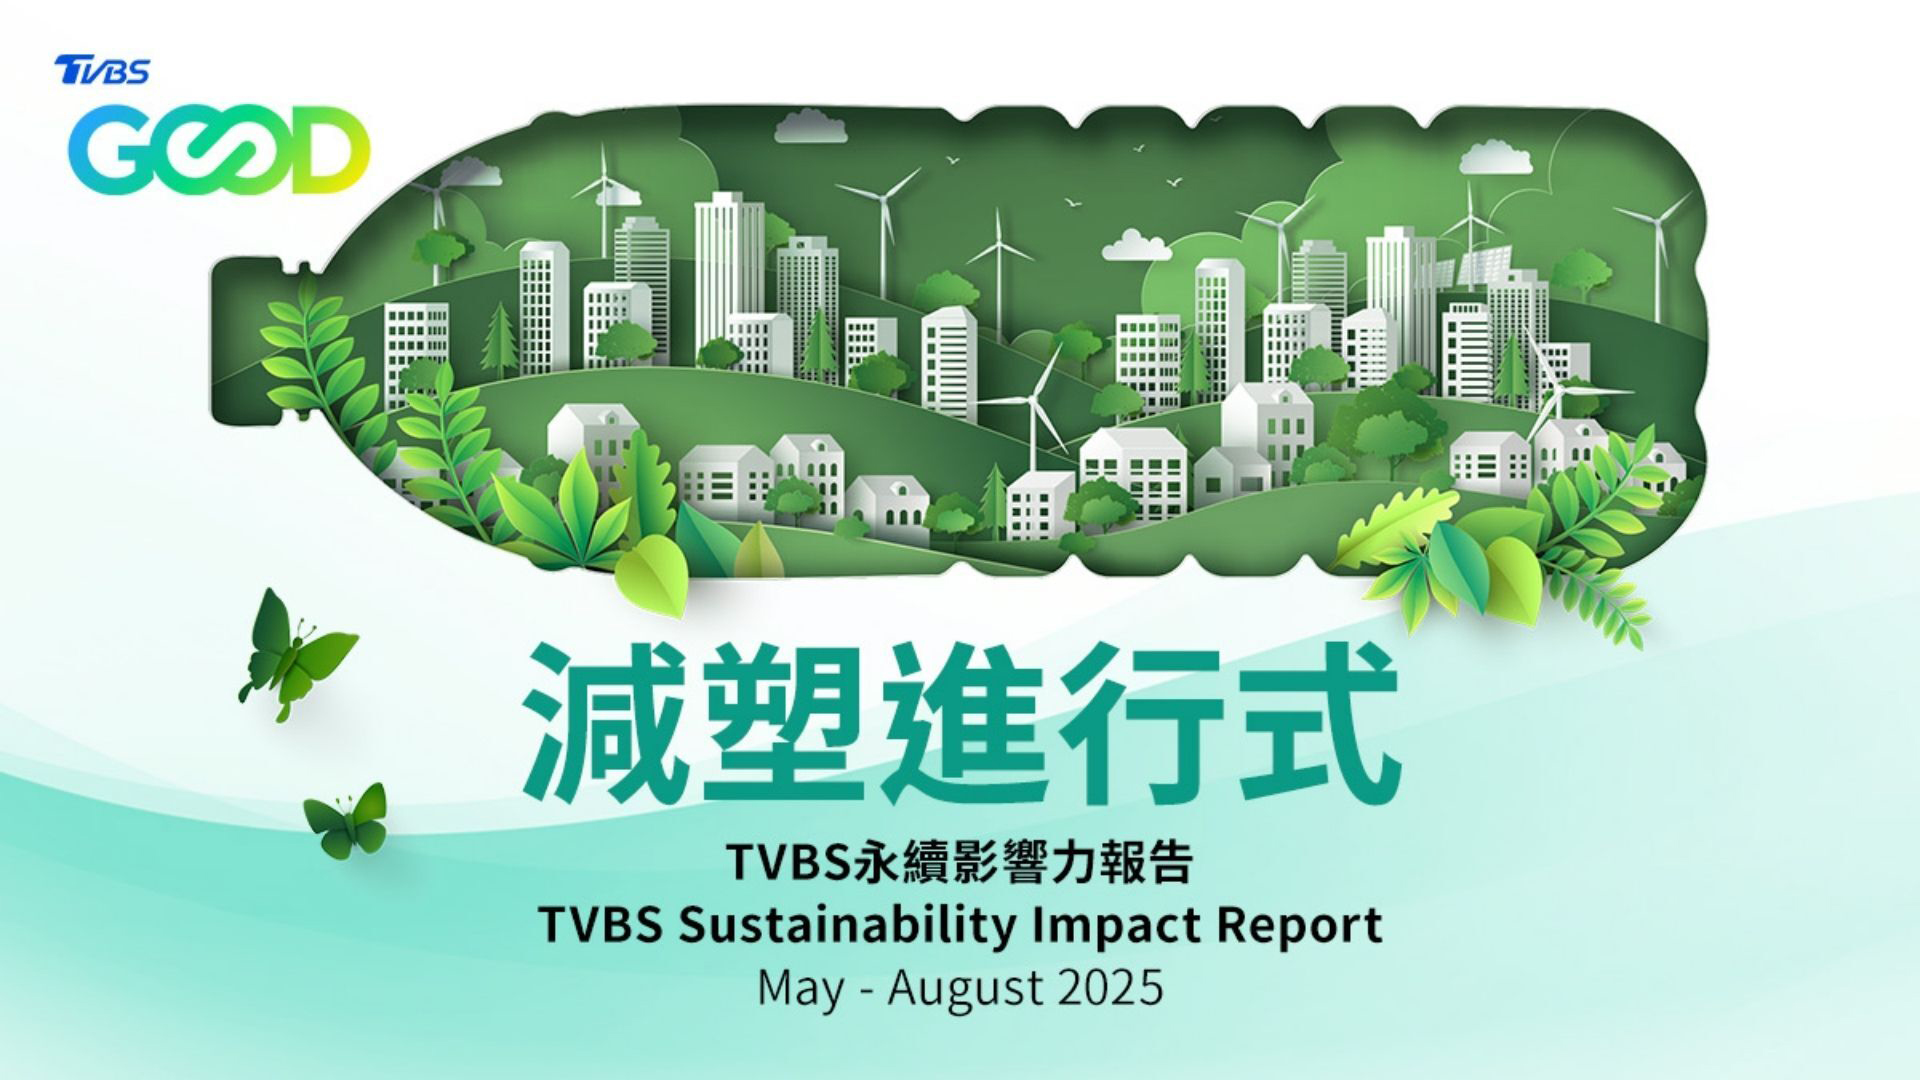
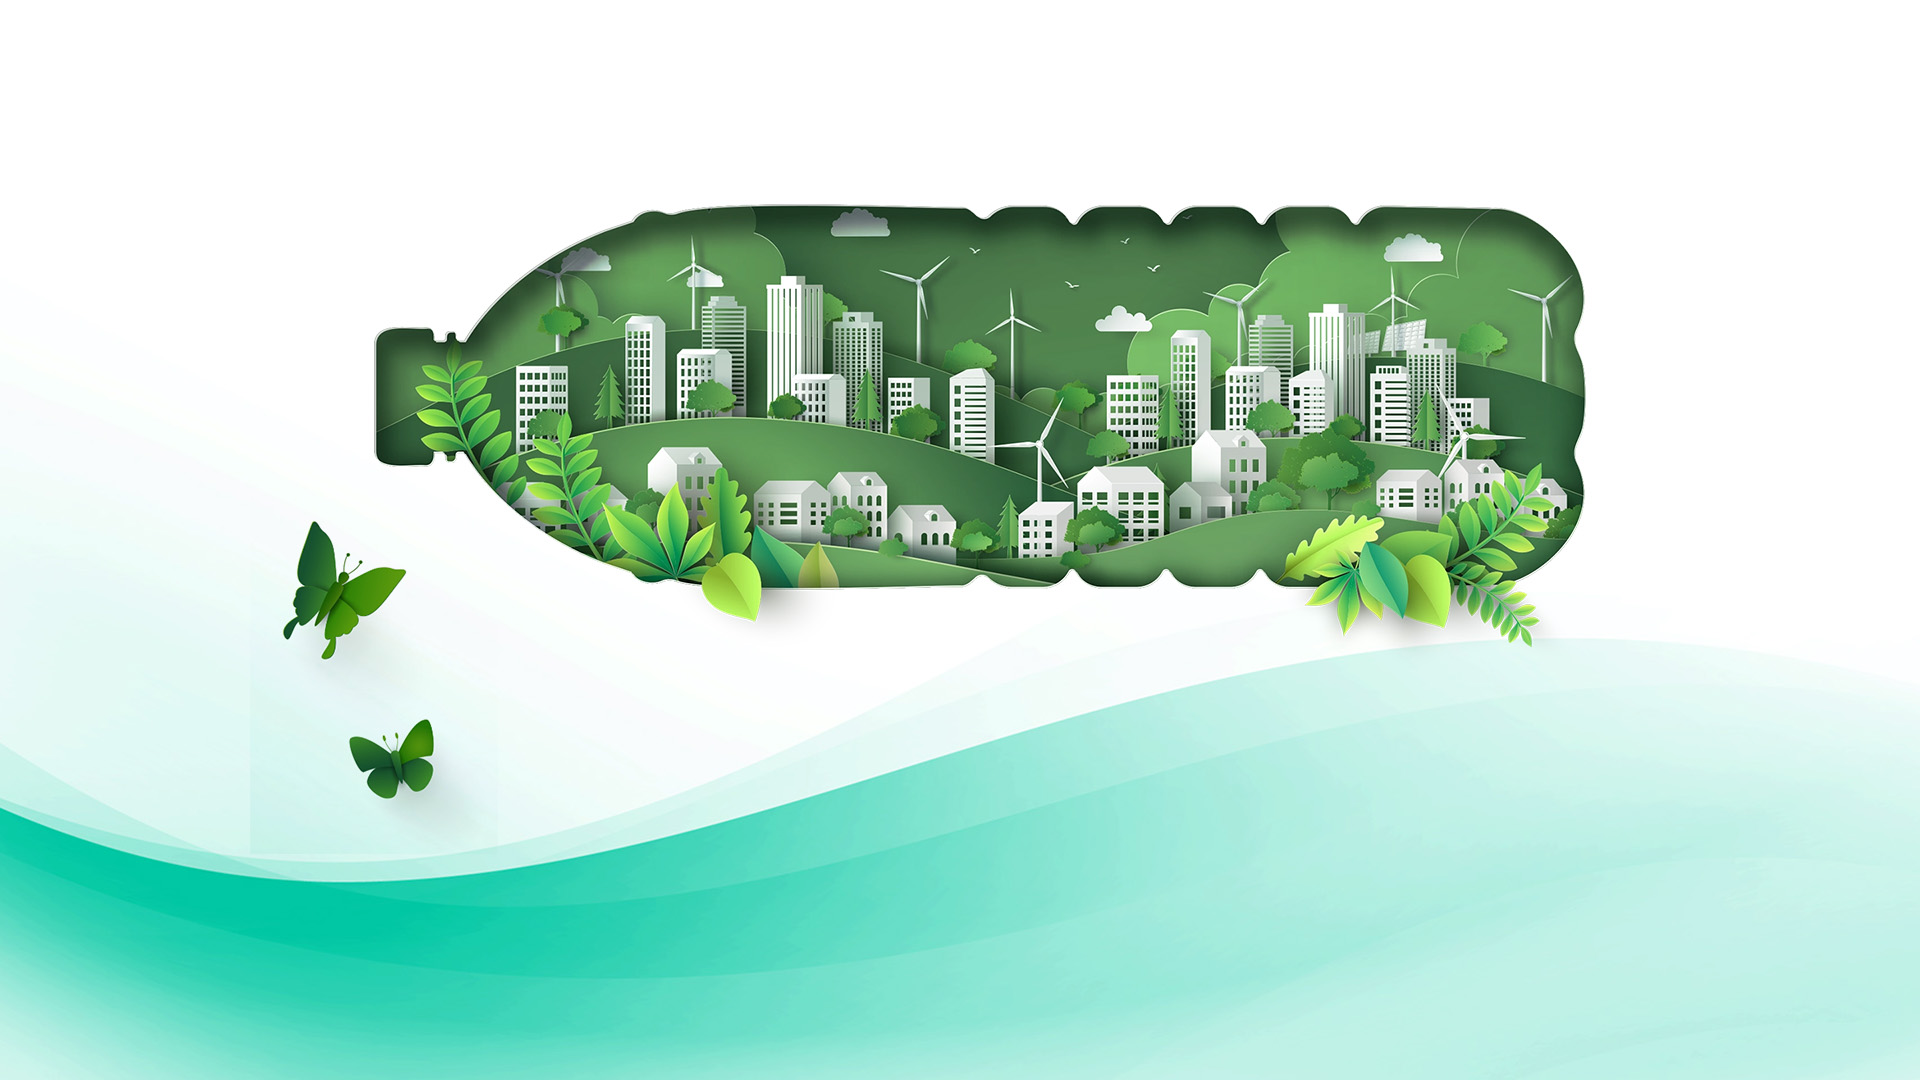
更更3

diff --git a/pages/responsibility/reports/report.module.css b/pages/responsibility/reports/report.module.css
@@ -191,15 +191,23 @@
     margin-bottom: 50px;
 }
 .content .reportArea {
-    margin: 74px auto 65px auto;
-    background: url(/images/2025reportCardInfo.png) no-repeat;
-    background-size: cover;
     width: 1040px;
+    margin: 0 auto;
+    position: relative;
+}
+.content .reportArea .img{
+    width: 100%;
+    height: auto;
     aspect-ratio: 16/9;
     border-radius: 20px;
-    padding: 53px 56px;
-    display: flex;
-    align-items: flex-end;
+    background-color: #333333;
+    position: relative;
+    overflow: hidden;
+}
+.content .reportArea .img img {
+    width: 100%;
+    height: 100%;
+    object-fit: cover;
 }
 .content .reportContent {
     width: 100%;
@@ -207,16 +215,17 @@
     justify-content: space-between;
     align-items: center;
     column-gap: 15px;
+    padding: 50px;
+    position: absolute;
+    bottom: 0;
+    left: 0;
+    z-index: 1;
 }
-
 .content .reportArea .mainTitle {
     border-radius: 10px;
     background: #FFF;
-    padding: 0px 16px;
     margin: 8px 0;
-    
 }
-
 .reportArea .mainTitle span {
     text-align: center;
     font-size: 48px;
@@ -496,17 +505,15 @@
         padding: 15px 20px;
     }
     .content .reportArea {
-        margin: 54px auto 51px auto;
         background-size: cover;
         border-radius: 20px;
         width: 900px;
-        padding: 53px 56px;
     }
     .content .reportArea .mainTitle {
         border-radius: 10px;
         background: #FFF;
+        padding: 0 16px;
     }
-
     .reportArea .mainTitle span {
         text-align: center;
         font-size: 36px;
@@ -548,7 +555,7 @@
         font-size: 36px;
         font-weight: 600;
         padding: 5px 20px 0;
-        border-radius: 20px 20px 0 0; 
+        border-radius: 20px 20px 0 0;
     }
     .mainView .title p {
         font-size: 36px;
@@ -567,13 +574,7 @@
     }
     .content .reportArea {
         width: 90%;
-        padding: 53px 20px;
     }
-    
-    .reportContent {
-
-    }
-
     .reportArea .mainTitle span {
         font-size: 30px;
         letter-spacing: 1.2px;
@@ -589,14 +590,14 @@
         width: 656px;
         margin: 0 auto;
         margin-bottom: 34px;
-    } 
+    }
     .reportsTitle p {
         font-size: 24px;
         letter-spacing: 0.08em;
         text-align: center;
         margin: 24px 0 0 0;
     }
-    
+
     .reportsTitle a {
         font-size: 18px;
         margin: 35px 0;
@@ -623,8 +624,8 @@
 }
 
 /* Tab styles Ends */
-.mainView .titleBoxMobile {  
-    display: none;   
+.mainView .titleBoxMobile {
+    display: none;
 }
 /* mobile starts */
 @media (max-width: 767px) {
@@ -635,13 +636,13 @@
     .mainView .titleBox {
         display: none;
     }
-    .mainView .title h1 { 
+    .mainView .title h1 {
         font-size: 28px;
         width: max-content;
         padding: 2px 11px;
         letter-spacing:normal;
         border-bottom-right-radius: 11px;
-        
+
     }
     .mainView .title .box:nth-child(2) p {
         border-top-right-radius: 15px;
@@ -698,15 +699,19 @@
     }
     .content .reportArea {
         width: 100%;
-        aspect-ratio: 1/1;
-        padding: 53px 14px;
     }
-    .content .reportArea .mainTitle { 
+    .content .reportArea .img{
+        aspect-ratio: 1/1;
+    }
+    .content .reportArea .mainTitle {
         padding: 4px 6px;
         display: inline-block;
     }
     .reportArea .content {
         padding: 0 2px;
+    }
+    .content .reportContent {
+        padding: 20px;
     }
     .reportArea .mainTitle span {
         font-size: 21px;
@@ -742,10 +747,6 @@
     .content .contxt .reportsTitle {
         margin-bottom: 32px;
     }
-    .content .reportArea {
-        background-position: top;
-
-    }
     .content .title.s1 {
         margin-bottom: 0;
     }
@@ -762,7 +763,7 @@
     .brand {
         padding: 0;
     }
-    
+
 }
 
 /* mobile ends */

diff --git a/pages/responsibility/reports/index.js b/pages/responsibility/reports/index.js
@@ -139,22 +139,18 @@ export default function Responsibility(props) {
             </div>
             {/* Report card */}
             <div className={cx("reportCard")}>
-                <div
-                  className={cx("reportArea")}
-                  style={{
-                    background: 'url(/images/2025reportCardInfo02.jpg) no-repeat center center',
-                    backgroundSize: 'cover'
-                  }}
-                >
+                <div className={cx("reportArea")}>
+                    <div className={cx("img")}>
+                        <img src={`/images/2025reportCardInfo02.jpg`} alt="2025 5-8 月永續影響力報告" width={1040} height={588} loading="lazy" />
+                    </div>
                     <div className={cx("reportContent")}>
                         <div className={cx("content")}>
                             <div className={cx("mainTitle")}>
-                                <span>2025 1-4 月永續影響力報告</span>
+                                <span>2025 5-8 月永續影響力報告</span>
                             </div>
-                            {/* <div className={cx("subTitle")}>
-                                <span>
-                                </span>
-                            </div> */}
+                            <div className={cx("subTitle")}>
+                                <span>減塑進行式</span>
+                            </div>
                         </div>
                         <div className={cx("downloadArea")} >
                             <a href="https://esg.tvbs.com.tw/exhibition/report/2025maytoaug/index.html" target="_blank" rel="noopener noreferrer">
